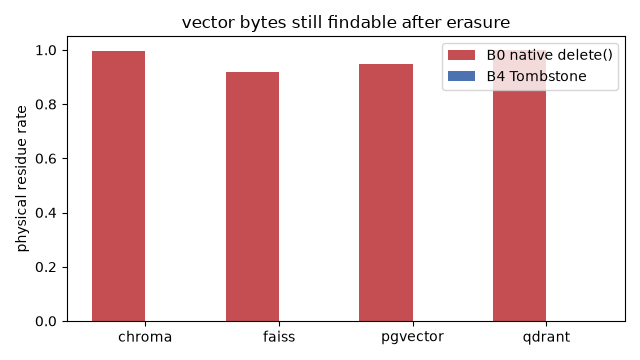
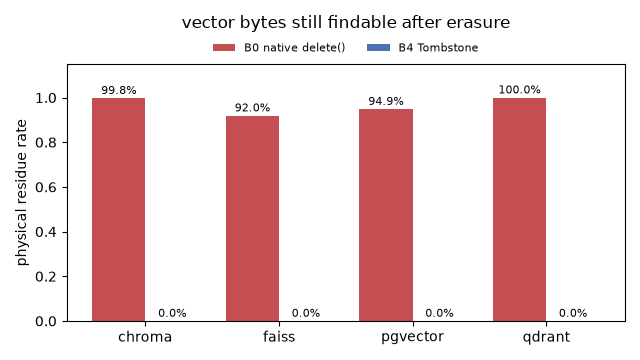
plots: label every bar, so a measured zero cannot read as missing data
The residue chart's whole point is the contrast between 92-100% and 0.0%, and
the 0.0% bars have no height — an absent bar and a measured zero looked
identical. Every bar now carries its value, and the legend moved out of the axes
where it was sitting on qdrant's 100% label.

Also ticks the eleven spec items whose numbers are now measured and committed,
each with the evidence beside it. The ones still open all wait on the unlearning
re-run.

diff --git a/bench/plots/make_plots.py b/bench/plots/make_plots.py
@@ -51,12 +51,25 @@ def residue_by_layer(r: dict[str, Any], out: Path) -> None:
     x = range(len(backends))
     ax.bar([i - 0.2 for i in x], b0, width=0.4, label="B0 native delete()", color="#c44e52")
     ax.bar([i + 0.2 for i in x], b4, width=0.4, label="B4 Tombstone", color="#4c72b0")
+    # A zero bar has no height, and an absent bar and a measured zero look identical — which is
+    # exactly the number this chart exists to show. Label every bar with its value.
+    for i, (v0, v4) in enumerate(zip(b0, b4, strict=True)):
+        for xpos, v in ((i - 0.2, v0), (i + 0.2, v4)):
+            ax.annotate(
+                f"{v * 100:.1f}%",
+                (xpos, v),
+                textcoords="offset points",
+                xytext=(0, 3),
+                ha="center",
+                fontsize=8,
+            )
     ax.set_xticks(list(x))
     ax.set_xticklabels(backends)
-    ax.set_ylim(0, 1.05)
+    ax.set_ylim(0, 1.15)
     ax.set_ylabel("physical residue rate")
-    ax.set_title("vector bytes still findable after erasure")
-    ax.legend(loc="upper right")
+    ax.set_title("vector bytes still findable after erasure", pad=26)
+    # outside the axes: at upper right it sat on top of qdrant's 100% label
+    ax.legend(loc="lower center", bbox_to_anchor=(0.5, 1.0), ncol=2, fontsize=8, frameon=False)
     fig.tight_layout()
     fig.savefig(out / "residue-by-layer.png", metadata=META)
     plt.close(fig)
